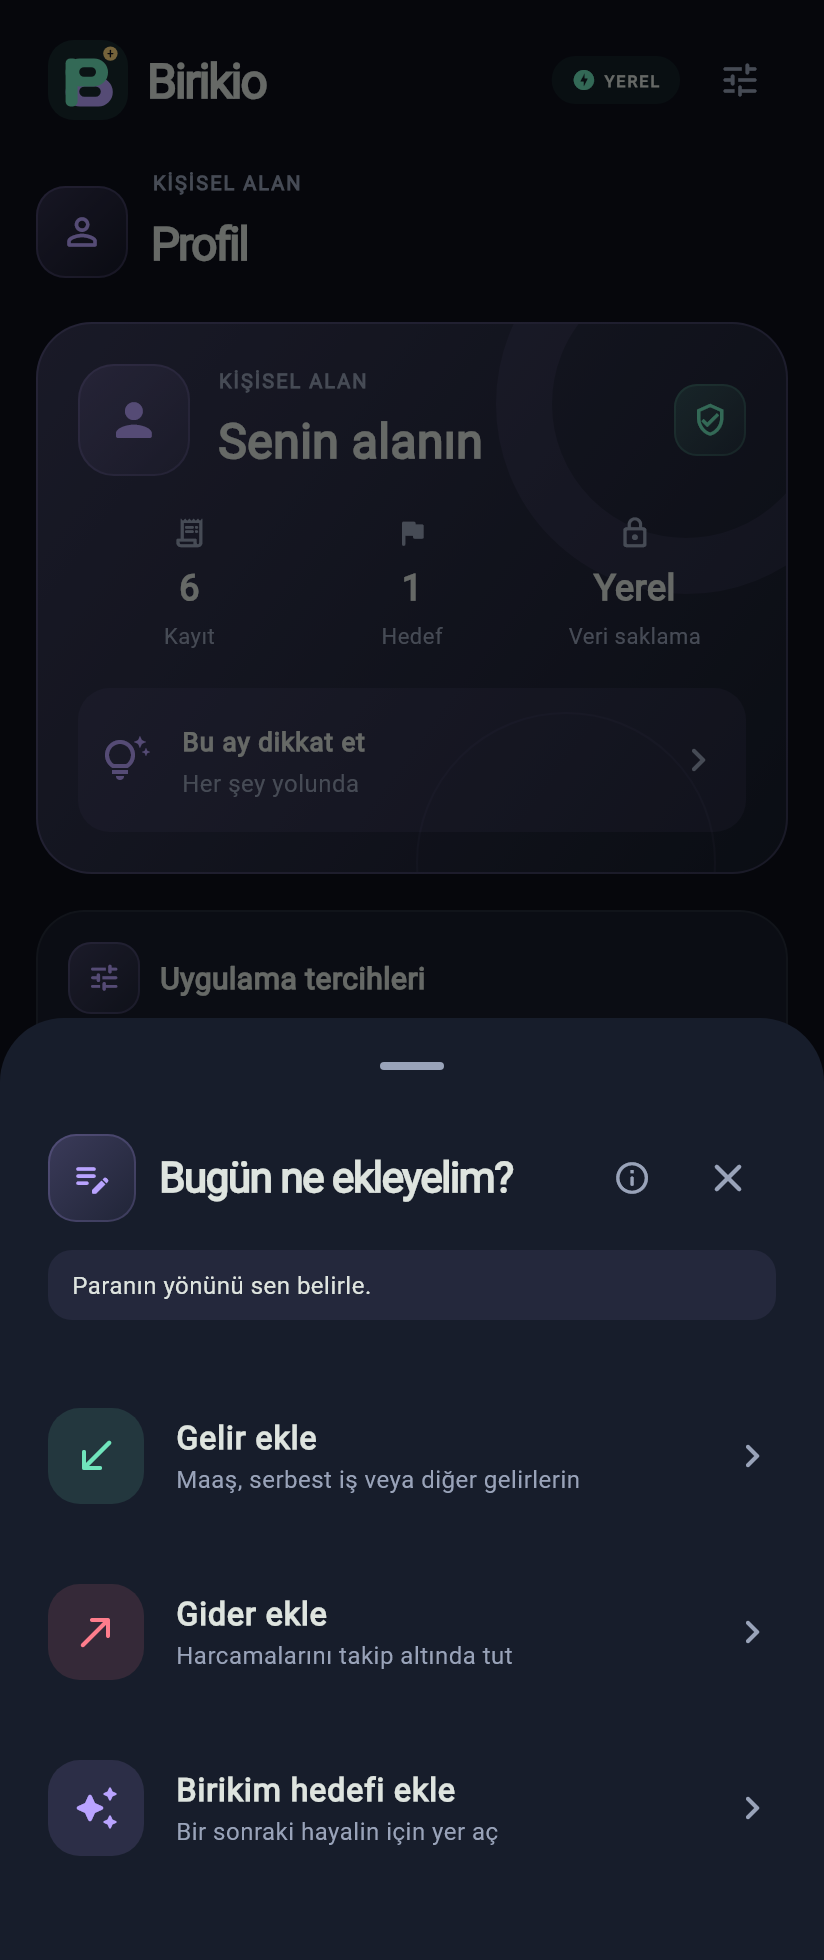
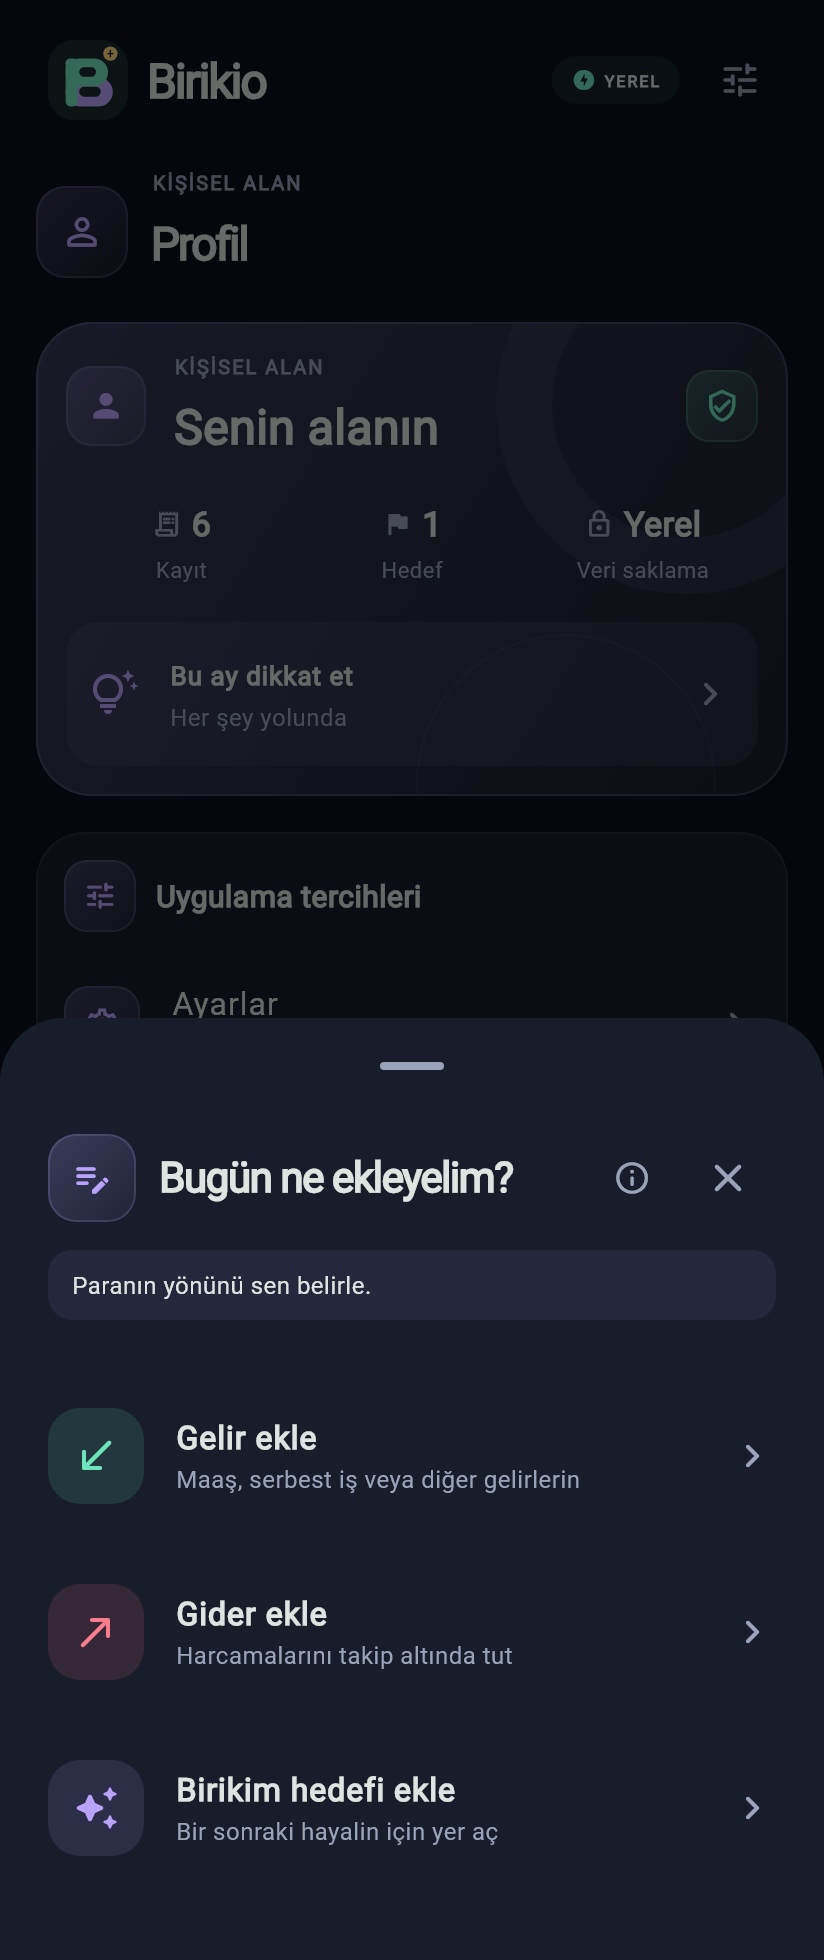
Compact summary cards and integrate pending monthly totals

diff --git a/lib/ui/app.dart b/lib/ui/app.dart
@@ -2210,6 +2210,19 @@ class _HomeShellState extends State<HomeShell> with WidgetsBindingObserver {
     }
 
     final pending = plans();
+    final summaryYears = entryAllMonths
+        ? <int>{entryMonth.year, ...s.scheduledExpenses.map((p) => p.due.year)}
+        : <int>{entryMonth.year};
+    final expected = summaryYears
+        .expand((year) => annualRadarItems(s, year))
+        .where((p) => !p.paid && dateMatches(p.due));
+    final expectedIncome = expected
+        .where((p) => p.income)
+        .fold<int>(0, (v, p) => v + p.amount);
+    final expectedExpense = expected
+        .where((p) => !p.income)
+        .fold<int>(0, (v, p) => v + p.amount);
+
     final filtered =
         query.isNotEmpty ||
         categoryFilter != null ||
@@ -2238,7 +2251,7 @@ class _HomeShellState extends State<HomeShell> with WidgetsBindingObserver {
             children: [
               Row(
                 children: [
-                  const IconBadge(Icons.autorenew_rounded, size: 48),
+                  const IconBadge(Icons.autorenew_rounded, size: 40),
                   const SizedBox(width: 12),
                   const Expanded(
                     child: Text(
@@ -2317,6 +2330,7 @@ class _HomeShellState extends State<HomeShell> with WidgetsBindingObserver {
     return [
       ...prefix,
       FeatureCard(
+        key: const ValueKey('monthly-summary'),
         color: colors.positive,
         child: Column(
           crossAxisAlignment: CrossAxisAlignment.stretch,
@@ -2335,15 +2349,43 @@ class _HomeShellState extends State<HomeShell> with WidgetsBindingObserver {
                   icon: const Icon(Icons.chevron_left_rounded),
                 ),
                 Expanded(
-                  child: Text(
-                    entryAllMonths
-                        ? 'Tüm kayıtlar'
-                        : '${const ['Ocak', 'Şubat', 'Mart', 'Nisan', 'Mayıs', 'Haziran', 'Temmuz', 'Ağustos', 'Eylül', 'Ekim', 'Kasım', 'Aralık'][entryMonth.month - 1]} ${entryMonth.year}',
-                    textAlign: TextAlign.center,
-                    style: const TextStyle(
-                      fontSize: 18,
-                      fontWeight: FontWeight.w800,
-                    ),
+                  child: Column(
+                    children: [
+                      Text(
+                        entryAllMonths
+                            ? 'Tüm kayıtlar'
+                            : '${const ['Ocak', 'Şubat', 'Mart', 'Nisan', 'Mayıs', 'Haziran', 'Temmuz', 'Ağustos', 'Eylül', 'Ekim', 'Kasım', 'Aralık'][entryMonth.month - 1]} ${entryMonth.year}',
+                        textAlign: TextAlign.center,
+                        style: const TextStyle(
+                          fontSize: 18,
+                          fontWeight: FontWeight.w800,
+                        ),
+                      ),
+                      Align(
+                        alignment: Alignment.center,
+                        child: TextButton.icon(
+                          style: TextButton.styleFrom(
+                            visualDensity: VisualDensity.compact,
+                            padding: const EdgeInsets.symmetric(horizontal: 6),
+                            minimumSize: const Size(0, 32),
+                          ),
+                          onPressed: () =>
+                              setState(() => entryAllMonths = !entryAllMonths),
+                          icon: Icon(
+                            entryAllMonths
+                                ? Icons.calendar_month_outlined
+                                : Icons.history_rounded,
+                            size: 14,
+                          ),
+                          label: Text(
+                            entryAllMonths
+                                ? 'Ay ay göster'
+                                : 'Tüm kayıtları göster',
+                            style: const TextStyle(fontSize: 11),
+                          ),
+                        ),
+                      ),
+                    ],
                   ),
                 ),
                 IconButton(
@@ -2359,22 +2401,6 @@ class _HomeShellState extends State<HomeShell> with WidgetsBindingObserver {
                 ),
               ],
             ),
-            Center(
-              child: TextButton.icon(
-                onPressed: () =>
-                    setState(() => entryAllMonths = !entryAllMonths),
-                icon: Icon(
-                  entryAllMonths
-                      ? Icons.calendar_month_outlined
-                      : Icons.history_rounded,
-                  size: 17,
-                ),
-                label: Text(
-                  entryAllMonths ? 'Ay ay göster' : 'Tüm kayıtları göster',
-                ),
-              ),
-            ),
-            const SizedBox(height: 8),
             Row(
               children: [
                 Expanded(
@@ -2383,6 +2409,7 @@ class _HomeShellState extends State<HomeShell> with WidgetsBindingObserver {
                     income,
                     colors.positive,
                     Icons.south_west_rounded,
+                    expected: expectedIncome,
                   ),
                 ),
                 const SizedBox(width: 12),
@@ -2392,6 +2419,7 @@ class _HomeShellState extends State<HomeShell> with WidgetsBindingObserver {
                     expense,
                     colors.negative,
                     Icons.north_east_rounded,
+                    expected: expectedExpense,
                   ),
                 ),
               ],
@@ -2399,24 +2427,6 @@ class _HomeShellState extends State<HomeShell> with WidgetsBindingObserver {
           ],
         ),
       ),
-      if (pending.isNotEmpty) ...[
-        const SizedBox(height: 8),
-        Wrap(
-          spacing: 12,
-          children: [
-            Chip(
-              label: Text(
-                'Beklenen gelir: +${money(pending.where((p) => p.income).fold<int>(0, (v, p) => v + p.amount))}',
-              ),
-            ),
-            Chip(
-              label: Text(
-                'Beklenen gider: −${money(pending.where((p) => !p.income).fold<int>(0, (v, p) => v + p.amount))}',
-              ),
-            ),
-          ],
-        ),
-      ],
       const SizedBox(height: 16),
       sectionTabs(
         ['Tümü', 'Gelirler', 'Giderler'],
@@ -3091,6 +3101,7 @@ class _HomeShellState extends State<HomeShell> with WidgetsBindingObserver {
     Color color,
     IconData icon, {
     bool large = false,
+    int? expected,
   }) => Column(
     crossAxisAlignment: CrossAxisAlignment.start,
     children: [
@@ -3109,7 +3120,15 @@ class _HomeShellState extends State<HomeShell> with WidgetsBindingObserver {
           ),
         ],
       ),
-      const SizedBox(height: 8),
+      const SizedBox(height: 4),
+      if (expected != null)
+        Text(
+          'Gerçekleşen',
+          style: TextStyle(
+            fontSize: 10,
+            color: Theme.of(context).colorScheme.onSurfaceVariant,
+          ),
+        ),
       SizedBox(
         width: double.infinity,
         child: FittedBox(
@@ -3126,6 +3145,42 @@ class _HomeShellState extends State<HomeShell> with WidgetsBindingObserver {
           ),
         ),
       ),
+      if (expected != null) ...[
+        const SizedBox(height: 8),
+        Container(
+          width: double.infinity,
+          padding: const EdgeInsets.symmetric(horizontal: 9, vertical: 7),
+          decoration: BoxDecoration(
+            color: color.withValues(alpha: .08),
+            borderRadius: BorderRadius.circular(10),
+          ),
+          child: Column(
+            crossAxisAlignment: CrossAxisAlignment.start,
+            children: [
+              Text(
+                'Bekleyen',
+                style: TextStyle(
+                  fontSize: 10,
+                  color: Theme.of(context).colorScheme.onSurfaceVariant,
+                ),
+              ),
+              const SizedBox(height: 2),
+              FittedBox(
+                fit: BoxFit.scaleDown,
+                alignment: Alignment.centerLeft,
+                child: Text(
+                  money(expected),
+                  style: TextStyle(
+                    fontSize: 13,
+                    fontWeight: FontWeight.w700,
+                    color: color,
+                  ),
+                ),
+              ),
+            ],
+          ),
+        ),
+      ],
     ],
   );
 
@@ -3306,7 +3361,7 @@ class _HomeShellState extends State<HomeShell> with WidgetsBindingObserver {
           children: [
             Row(
               children: [
-                const IconBadge(Icons.person_rounded, size: 56),
+                const IconBadge(Icons.person_rounded, size: 40),
                 const SizedBox(width: 14),
                 Expanded(
                   child: Column(
@@ -3485,15 +3540,22 @@ class _HomeShellState extends State<HomeShell> with WidgetsBindingObserver {
 
   Widget _profileMetric(String value, String label, IconData icon) => Column(
     children: [
-      Icon(
-        icon,
-        size: 17,
-        color: Theme.of(context).colorScheme.onSurfaceVariant,
-      ),
-      const SizedBox(height: 6),
-      Text(
-        value,
-        style: const TextStyle(fontSize: 18, fontWeight: FontWeight.w800),
+      Row(
+        mainAxisAlignment: MainAxisAlignment.center,
+        children: [
+          Icon(
+            icon,
+            size: 15,
+            color: Theme.of(context).colorScheme.onSurfaceVariant,
+          ),
+          const SizedBox(width: 5),
+          Flexible(
+            child: Text(
+              value,
+              style: const TextStyle(fontSize: 17, fontWeight: FontWeight.w800),
+            ),
+          ),
+        ],
       ),
       const SizedBox(height: 3),
       Text(

diff --git a/lib/ui/widgets.dart b/lib/ui/widgets.dart
@@ -99,7 +99,7 @@ class Panel extends StatelessWidget {
     super.key,
     required this.child,
     this.color,
-    this.padding = const EdgeInsets.all(16),
+    this.padding = const EdgeInsets.all(14),
   });
   @override
   Widget build(BuildContext context) => Material(
@@ -199,7 +199,7 @@ class SectionCard extends StatelessWidget {
             ?action,
           ],
         ),
-        const SizedBox(height: 16),
+        const SizedBox(height: 10),
         child,
       ],
     ),
@@ -265,7 +265,7 @@ class FeatureCard extends StatelessWidget {
           ),
           Material(
             color: Colors.transparent,
-            child: Padding(padding: const EdgeInsets.all(20), child: child),
+            child: Padding(padding: const EdgeInsets.all(14), child: child),
           ),
         ],
       ),
@@ -337,14 +337,14 @@ class EmptyState extends StatelessWidget {
       children: [
         Center(
           child: SizedBox(
-            width: 100,
-            height: 88,
+            width: 68,
+            height: 56,
             child: Stack(
               alignment: Alignment.center,
               children: [
                 Container(
-                  width: 84,
-                  height: 84,
+                  width: 54,
+                  height: 54,
                   decoration: BoxDecoration(
                     shape: BoxShape.circle,
                     border: Border.all(
@@ -354,7 +354,7 @@ class EmptyState extends StatelessWidget {
                     ),
                   ),
                 ),
-                IconBadge(icon, size: 60),
+                IconBadge(icon, size: 40),
                 Positioned(
                   right: 4,
                   top: 5,
@@ -368,13 +368,13 @@ class EmptyState extends StatelessWidget {
             ),
           ),
         ),
-        const SizedBox(height: 12),
+        const SizedBox(height: 8),
         Text(
           title,
           textAlign: TextAlign.center,
           style: const TextStyle(fontSize: 16, fontWeight: FontWeight.w700),
         ),
-        const SizedBox(height: 10),
+        const SizedBox(height: 6),
         Text(
           subtitle,
           textAlign: TextAlign.center,

diff --git a/test/monthly_recurring_test.dart b/test/monthly_recurring_test.dart
@@ -32,6 +32,12 @@ void main() {
     await tester.tap(find.text('Gelir & Gider').last);
     await tester.pumpAndSettle();
     expect(find.text('0 gerçekleşmiş · 2 bekleyen kayıt'), findsOneWidget);
+    expect(
+      tester.getSize(find.byKey(const ValueKey('monthly-summary'))).height,
+      lessThan(220),
+    );
+    expect(find.byType(Chip), findsNothing);
+    expect(find.text('Bekleyen'), findsNWidgets(2));
     await tester.ensureVisible(find.text('Düzenli maaş'));
     expect(find.text('Düzenli maaş'), findsOneWidget);
     expect(find.text('Düzenli kira'), findsOneWidget);
@@ -42,6 +48,8 @@ void main() {
     await tester.pumpAndSettle();
     expect(find.text('0 gerçekleşmiş · 1 bekleyen kayıt'), findsOneWidget);
     expect(find.text('Düzenli kira'), findsNothing);
+    // The period summary remains independent of the income-only list filter.
+    expect(find.text('100,00 ₺'), findsNWidgets(2));
     expect(tester.takeException(), isNull);
   });
 

diff --git a/lib/ui/reports.dart b/lib/ui/reports.dart
@@ -97,12 +97,12 @@ class _BudgetPageState extends State<BudgetPage> {
                   ),
                 ],
               ),
-              const SizedBox(height: 24),
+              const SizedBox(height: 16),
               Row(
                 children: [
                   SizedBox(
-                    width: 84,
-                    height: 84,
+                    width: 72,
+                    height: 72,
                     child: Stack(
                       alignment: Alignment.center,
                       children: [
@@ -150,7 +150,7 @@ class _BudgetPageState extends State<BudgetPage> {
                   ),
                 ],
               ),
-              const SizedBox(height: 24),
+              const SizedBox(height: 16),
               Row(
                 children: [
                   Expanded(child: _budgetMetric('Limit', limit)),

diff --git a/README.md b/README.md
@@ -36,6 +36,8 @@ Anasayfada kullanılabilir bakiyeyi, bu ayın gelir ve giderini ve birikim hedef
 
 ### 2. Gelir ve giderlerini kaydet
 
+Aylık özet tek kartta iki sütundur: gelir ve giderin gerçekleşen tutarı, hemen altında aynı dönemin bekleyen tutarı yer alır. Liste filtreleri bu dönem özetini değiştirmez. Kartların iç boşlukları ve boş durum görselleri küçültüldü; daha fazla içerik aynı ekrana sığar.
+
 Alttaki **+** düğmesi gelir, gider ve birikim hedefi ekleme akışlarını açar. Gelir & Gider ekranında **Kayıtlar / Yıllık radar / Düzenli** görünümlerine doğrudan geçersin. Kayıtlarda oklarla ay değiştirir veya **Tüm kayıtları göster** ile bütün geçmişi açarsın. Düzenli görünümü bütün serileri listeler. Yeni kayıt eklenince kaydın ayı açılır ve önceki arama/filtreler temizlenir. Kategori, tarih, tutar ve tekrar durumuyla ayrıca filtreleyebilirsin. Tutar yazarken binlik gruplar otomatik noktayla ayrılır.
 
 <table>
@@ -196,7 +198,7 @@ pwsh -File tools/build_update_apk.ps1
 
 Betik analiz ve testlerden sonra release APK'sini derler; aynı özel anahtarla imzalar ve paket kimliği, sürüm kodu ile sertifika parmak izini doğrulamadan masaüstüne kopyalamaz. Son teslim kodunu `tools/update_identity.json` içinde günceller; bu dosyayı da değişikliklerle birlikte commit et. Eski anahtar `~/.android/debug.keystore` konumunda bulunmalıdır. Anahtarın güvenli bir çevrimdışı kopyasını sakla; **yeni debug anahtarı üretmek aynı imzayı sağlamaz**. Bu anahtarı repoya ekleme.
 
-Telefonunda önceki Birikio APK'si yüklüyse güncelleme için `com.bekirturgut.birikio` paket kimliği, **aynı imza sertifikası** ve daha yüksek `versionCode` gerekir. Son teslim `1.2.2+7` değerini kullanır. Kurmadan önce **Profil → Yedek oluştur**; APK'yi mevcut uygulamanın üzerine **Güncelle** ile kur. Kaldırma veya uygulama verilerini temizleme yerel kayıtları silebilir. İmza uyuşmazlığı yüzünden Android kaldırma isterse işlemi durdur ve yedeği al.
+Telefonunda önceki Birikio APK'si yüklüyse güncelleme için `com.bekirturgut.birikio` paket kimliği, **aynı imza sertifikası** ve daha yüksek `versionCode` gerekir. Son teslim `1.2.3+8` değerini kullanır. Kurmadan önce **Profil → Yedek oluştur**; APK'yi mevcut uygulamanın üzerine **Güncelle** ile kur. Kaldırma veya uygulama verilerini temizleme yerel kayıtları silebilir. İmza uyuşmazlığı yüzünden Android kaldırma isterse işlemi durdur ve yedeği al.
 
 > README görselleri Flutter widget testinde gerçek arayüz bileşenlerinden üretilir. iOS cihaz derlemesi henüz doğrulanmamıştır.
 
